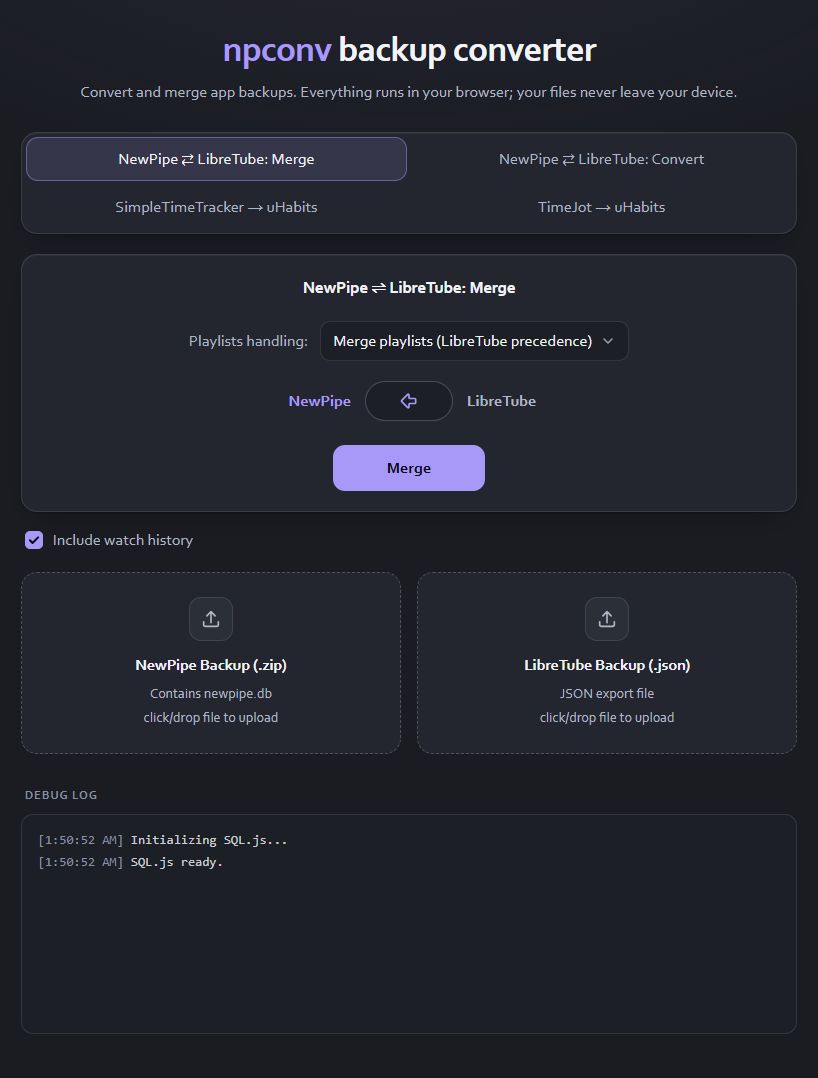
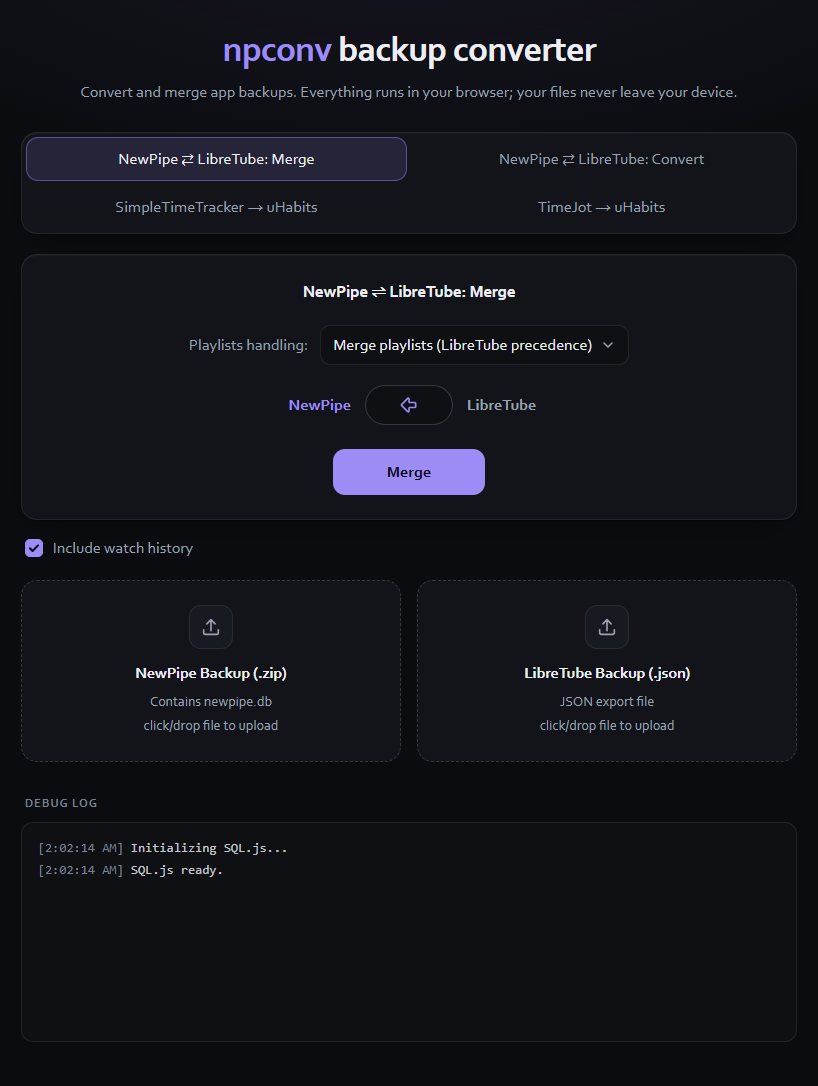
Restore dark theme, fix mobile tap highlight, flatten nested boxes
- Revert the lighter palette to the original dark one (keeps flat
  buttons, new fonts, per-row modes and the arrow animation fix)
- Set -webkit-tap-highlight-color: transparent so tapping a mode row no
  longer shows the browser's square overlay; add :active feedback to the
  mode rows and the add-mapping button instead
- Habit modes: drop the mapping cards and the graph panel so the card is
  the only box; mappings are separated by hairlines and the activity
  graph sits on the card surface (empty days use a lighter color)
- Slightly raise --text-faint for contrast with the thinner font
- Refresh README screenshots

diff --git a/style.css b/style.css
@@ -5,22 +5,22 @@
 	color-scheme: dark;
 
 	/* Surfaces, from the page background up to raised elements */
-	--bg: #1a1c22;
-	--surface: #23262e;
-	--surface-2: #2b2f38;
-	--surface-3: #353a45;
-	--field: #1c1f25;
+	--bg: #0b0c10;
+	--surface: #12141a;
+	--surface-2: #171a21;
+	--surface-3: #1f232c;
+	--field: #0e1014;
 
-	--border: rgb(255 255 255 / 0.1);
-	--border-strong: rgb(255 255 255 / 0.2);
+	--border: rgb(255 255 255 / 0.08);
+	--border-strong: rgb(255 255 255 / 0.16);
 
-	--text: #f1f3f7;
-	--text-muted: #b0b7c4;
-	--text-faint: #8890a0;
+	--text: #eceef3;
+	--text-muted: #9aa1b0;
+	--text-faint: #7a8191;
 
-	--primary: #a898f8;
-	--primary-hover: #bcb0fb;
-	--primary-press: #9684f0;
+	--primary: #9d8bf6;
+	--primary-hover: #b2a4fa;
+	--primary-press: #8a76ee;
 	--on-primary: #0d0b1a;
 	--secondary: #2dd4bf;
 	--error: #f08a9b;
@@ -33,16 +33,12 @@
 	--radius: 12px;
 	--radius-lg: 16px;
 
-	/* Nested box padding. Tightened below 60rem so the fixed-width activity
-	   grid still fits without scrolling on tablets. */
 	--pad-card: 24px;
-	--pad-item: 16px;
-	--pad-graph: 16px;
 
 	--shadow-card:
-		inset 0 1px 0 rgb(255 255 255 / 0.05),
-		0 1px 2px rgb(0 0 0 / 0.25),
-		0 12px 32px -16px rgb(0 0 0 / 0.45);
+		inset 0 1px 0 rgb(255 255 255 / 0.04),
+		0 1px 2px rgb(0 0 0 / 0.4),
+		0 12px 32px -16px rgb(0 0 0 / 0.6);
 
 	/* From https://modernfontstacks.com: "Geometric Humanist" and "Monospace Code" */
 	--font-sans: Avenir, Montserrat, Corbel, "URW Gothic", source-sans-pro, sans-serif;
@@ -57,7 +53,12 @@
    ========================================================================== */
 * { box-sizing: border-box; }
 
-html { scrollbar-gutter: stable; }
+html {
+	scrollbar-gutter: stable;
+	/* Suppress the browser's square translucent tap overlay on touch devices.
+	   Pressed feedback is provided by the :active styles instead. */
+	-webkit-tap-highlight-color: transparent;
+}
 
 body {
 	margin: 0;
@@ -71,7 +72,7 @@ body {
 	font-variant-numeric: lining-nums;
 	color: var(--text);
 	background:
-		radial-gradient(60rem 28rem at 50% -8rem, color-mix(in srgb, var(--primary) 8%, transparent), transparent 70%),
+		radial-gradient(60rem 28rem at 50% -8rem, color-mix(in srgb, var(--primary) 9%, transparent), transparent 70%),
 		var(--bg);
 	background-repeat: no-repeat;
 	-webkit-font-smoothing: antialiased;
@@ -166,6 +167,8 @@ h1 .brand { color: var(--primary); }
 	background: rgb(255 255 255 / 0.04);
 }
 
+.mode-pill:active { background: rgb(255 255 255 / 0.08); }
+
 .mode-switch input[type="radio"]:checked + .mode-pill {
 	color: var(--text);
 	background: var(--tint);
@@ -200,14 +203,6 @@ h1 .brand { color: var(--primary); }
 	font-weight: 600;
 	letter-spacing: -0.01em;
 	text-align: center;
-}
-
-@media (width < 60rem) {
-	:root {
-		--pad-card: 20px;
-		--pad-item: 14px;
-		--pad-graph: 12px;
-	}
 }
 
 @media (width < 40rem) {
@@ -631,18 +626,22 @@ input[type="file"] {
 	text-transform: uppercase;
 }
 
+/* Mappings are plain sections inside the card, separated by hairlines,
+   so there is only ever one level of box. */
 #mapping-list {
 	display: flex;
 	flex-direction: column;
-	gap: 12px;
-	margin-bottom: 12px;
+	margin-bottom: 8px;
 }
 
 .mapping-item {
-	padding: var(--pad-item);
-	background: var(--surface-2);
-	border: 1px solid var(--border);
-	border-radius: var(--radius);
+	padding-block: 18px;
+	border-top: 1px solid var(--border);
+}
+
+.mapping-item:first-child {
+	padding-top: 4px;
+	border-top: 0;
 }
 
 .mapping-selects {
@@ -721,6 +720,8 @@ input[type="file"] {
 	background: color-mix(in srgb, var(--primary) 6%, transparent);
 }
 
+#add-mapping:active:not(:disabled) { background: color-mix(in srgb, var(--primary) 12%, transparent); }
+
 /* Stack the two selects once there is not enough room side by side */
 @media (width < 48rem) {
 	.mapping-selects {
@@ -743,14 +744,13 @@ input[type="file"] {
 /* ==========================================================================
    Activity grid preview
    ========================================================================== */
+/* Scroll wrapper only. The small padding keeps focus rings of the edge
+   controls from being clipped by overflow. */
 .activity-grid-container {
 	max-width: 100%;
-	margin-top: 16px;
-	padding: var(--pad-graph);
+	margin: 16px -4px 0;
+	padding: 4px;
 	overflow-x: auto;
-	background: var(--field);
-	border: 1px solid var(--border);
-	border-radius: var(--radius);
 	-webkit-overflow-scrolling: touch;
 	scrollbar-width: thin;
 	scrollbar-color: var(--surface-3) transparent;

diff --git a/src/components/MappingItem.tsx b/src/components/MappingItem.tsx
@@ -25,18 +25,19 @@ interface GridDataPoint {
 // Keep in sync with --secondary / --primary in style.css
 const GRAPH_COLORS: Record<GraphCategory, string> = {
   source: '#2dd4bf',
-  existing: '#a898f8',
+  existing: '#9d8bf6',
   overlap: '#e6defc'
 };
 
 const GRAPH_DIM_COLORS: Record<GraphCategory, string> = {
-  source: '#204c4c',
-  existing: '#3b3954',
-  overlap: '#444550'
+  source: '#143c3a',
+  existing: '#2f2b4d',
+  overlap: '#47435f'
 };
 
-const GRAPH_EMPTY_COLOR = '#2e323c';
-const GRAPH_BASE_COLORS = ['#2e323c', '#3a3856', '#454268', '#514d7a', '#5f5a8f'];
+// The graph sits directly on the card surface, so empty days must be lighter than it
+const GRAPH_EMPTY_COLOR = '#1f232c';
+const GRAPH_BASE_COLORS = [GRAPH_EMPTY_COLOR, '#272a3a', '#312f4a', '#3b3858', '#464266'];
 
 const Chevron: Component<{ direction: 'left' | 'right' }> = (props) => (
   <svg xmlns="http://www.w3.org/2000/svg" width="18" height="18" viewBox="0 0 24 24" fill="none" stroke="currentColor" stroke-width="2.2" stroke-linecap="round" stroke-linejoin="round" aria-hidden="true">
